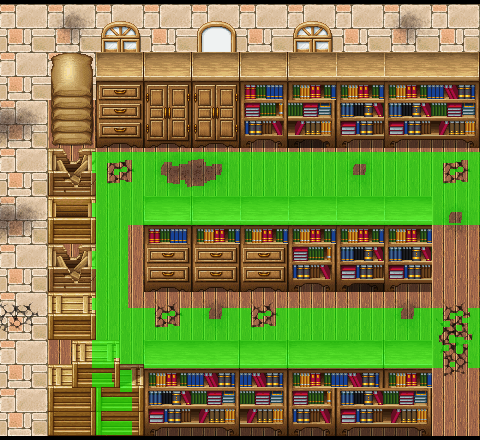
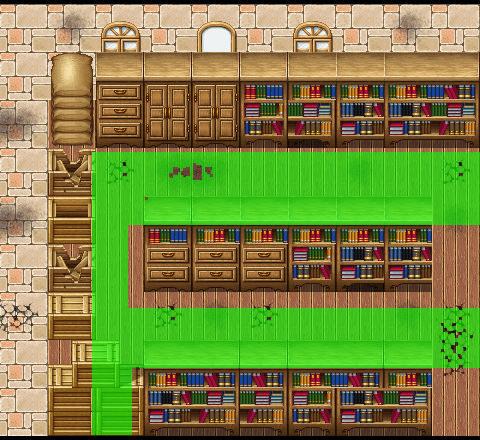
[实验] Citrate#35-38：走位段修复（提示重叠/擦碑音效/杂符/办公室卡顿）
- #35 墓园「Enter」提示下移到 y=250，不再与目标浮标「苏兰墓」重叠
- #36 Ch01 擦碑按住循环：擦净切阶段/描完/选项/离开场景 都主动 StopHold
- #37 去掉浮标文本里的 ▼ 记号（目标点本就有脉冲环+亮柱+菱形），消除杂符
- #38 办公室走动卡顿根因：木纹细线把可走面碎成 529 块、玩家困在小口袋。
  掩码形态学改「闭」(桥接细缝)，办公室连成一片(最大块95%含出生点)；
  引擎批量读掩码、脚探针收窄到 ±4/±2
- 反馈 #35-38 均标注程序回复；集成测试 87/87

diff --git a/tools/walkmask.py b/tools/walkmask.py
@@ -19,27 +19,30 @@ ROOT = os.path.dirname(os.path.dirname(os.path.abspath(__file__)))
 TEX = os.path.join(ROOT, "assets", "textures")
 OUT = os.path.join(ROOT, "data", "gen")
 
-# 地图 → 障碍矩形 (x0,y0,x1,y1)，像素坐标（图内）
+# 地图 → (闭运算半径, 障碍矩形 (x0,y0,x1,y1))，像素坐标（图内）
+# ★ 必须"闭"(先膨胀后腐蚀)而不是"开"：木地板的木纹/阴影是被判成非可走的细线，
+#   开运算会把这些细线越撕越宽、把地板碎成几百块（实测办公室 529 块），玩家被
+#   困在小口袋里→"走动极其不流畅"。闭运算把细缝桥接起来，得到一整片连通地板。
 MAPS = {
-    "map_office": [
+    "map_office": (5, [
         (378, 236, 568, 408),   # 书柜
         (700, 285, 880, 625),   # 右侧石堆
         (25, 555, 325, 705),    # 左下石料
         (146, 230, 312, 418),   # 床
         (410, 420, 568, 512),   # 桌
-    ],
-    "map_shop": [
+    ]),
+    "map_shop": (3, [
         (378, 108, 1012, 568),  # 中央碑样品陈列台
         (0, 688, 300, 832),     # 左下账台
         (250, 758, 1152, 960),  # 底部碑阵
-    ],
-    "map_archive_room": [
+    ]),
+    "map_archive_room": (3, [
         (0, 0, 480, 88),        # 顶墙
         (78, 88, 480, 152),     # 顶层架
         (0, 0, 92, 588),        # 左墙/抽屉列
         (128, 225, 480, 308),   # 中层架
         (132, 368, 480, 588),   # 底层架
-    ],
+    ]),
 }
 
 
@@ -51,14 +54,14 @@ def warm(a):
     return warmish & ~gray & ~dark
 
 
-def gen(name, obstacles):
+def gen(name, radius, obstacles):
     src = os.path.join(TEX, name + ".png")
     a = np.asarray(Image.open(src).convert("RGB")).astype(int)
     m = warm(a)
     mi = Image.fromarray((m * 255).astype("uint8"))
-    # 形态学开（去碎点）→ 闭（补小洞）
-    mi = (mi.filter(ImageFilter.MinFilter(5)).filter(ImageFilter.MaxFilter(5))
-            .filter(ImageFilter.MaxFilter(5)).filter(ImageFilter.MinFilter(5)))
+    # 闭运算：先把细缝桥接起来（地板连通），再轻微开一下去碎点
+    mi = (mi.filter(ImageFilter.MaxFilter(radius)).filter(ImageFilter.MinFilter(radius))
+            .filter(ImageFilter.MinFilter(3)).filter(ImageFilter.MaxFilter(3)))
     m = np.asarray(mi) > 128
     for x0, y0, x1, y1 in obstacles:
         m[max(0, y0):y1, max(0, x0):x1] = False
@@ -73,4 +76,5 @@ def gen(name, obstacles):
 if __name__ == "__main__":
     want = sys.argv[1:] or list(MAPS)
     for n in want:
-        gen(n, MAPS.get(n, []))
+        r, obs = MAPS.get(n, (3, []))
+        gen(n, r, obs)

diff --git a/src/Game/RpgWalk.cs b/src/Game/RpgWalk.cs
@@ -77,7 +77,7 @@ public partial class RpgWalk : Node2D
         {
             var beacon = new RpgBeacon { Position = t.Pos + new Vector2(0, -6) };
             AddChild(beacon);
-            var tag = new Label { Text = "▼ " + t.Label, Modulate = new Color(1, 0.97f, 0.85f) };
+            var tag = new Label { Text = t.Label, Modulate = new Color(1, 0.97f, 0.85f) };
             tag.AddThemeColorOverride("font_shadow_color", new Color(0, 0, 0, 0.9f));
             tag.AddThemeConstantOverride("shadow_offset_x", 1);
             tag.AddThemeConstantOverride("shadow_offset_y", 1);
@@ -106,11 +106,13 @@ public partial class RpgWalk : Node2D
         var maskTex = ResourceLoader.Exists(maskPath) ? ResourceLoader.Load<Texture2D>(maskPath) : null;
         if (maskTex != null)
         {
-            var mi = maskTex.GetImage(); mi.Convert(Image.Format.Rgb8);
+            var mi = maskTex.GetImage();
             if (mi.GetWidth() == _mw && mi.GetHeight() == _mh)
-                for (int y = 0; y < _mh; y++)
-                for (int x = 0; x < _mw; x++)
-                    walk[y * _mw + x] = mi.GetPixel(x, y).R > 0.5f;
+            {
+                mi.Convert(Image.Format.R8);        // 批量读像素，别逐格 GetPixel（几十万次会卡）
+                var px = mi.GetData();
+                for (int i = 0; i < px.Length && i < walk.Length; i++) walk[i] = px[i] > 128;
+            }
             else maskTex = null;
         }
         if (maskTex == null)   // 回退：颜色分类
@@ -126,7 +128,7 @@ public partial class RpgWalk : Node2D
         for (int x = 4; x < _mw - 4; x++)
         {
             bool ok = walk[y * _mw + x];
-            foreach (var (dx, dy) in new[] { (-4, 0), (4, 0), (0, 3), (0, -3) })
+            foreach (var (dx, dy) in new[] { (-4, 0), (4, 0), (0, 2), (0, -2) })
                 if (!walk[(y + dy) * _mw + (x + dx)]) { ok = false; break; }
             _safe[y * _mw + x] = ok;
         }

diff --git a/src/Game/Ch01.cs b/src/Game/Ch01.cs
@@ -129,8 +129,18 @@ public partial class Ch01 : Node2D
 
     public override void _Notification(int what)
     {
-        // 离开场景务必把系统光标还回来
-        if (what == NotificationExitTree) Input.MouseMode = Input.MouseModeEnum.Visible;
+        // 离开场景务必把系统光标还回来（#36：按住循环也一并停）
+        if (what == NotificationExitTree)
+        {
+            Input.MouseMode = Input.MouseModeEnum.Visible;
+            AudioIndex.StopHold();
+        }
+    }
+
+    /// <summary>#36：擦净/描完/选项时主动停掉按住循环——不然它会一直响到玩家松手。</summary>
+    void StopHolds()
+    {
+        if (_wipeHold || _traceHold) { _wipeHold = false; _traceHold = false; AudioIndex.StopHold(); }
     }
 
     public override void _Process(double delta)
@@ -199,6 +209,7 @@ public partial class Ch01 : Node2D
                 _dateSeen = 0;
                 if (DateDustMean() < 0.08f)
                 {
+                    StopHolds();   // #36：擦净即停，别等玩家松手
                     _phase = Phase.Choice; _hint.Text = "";
                     ShowGlow(true);
                     ShowCards();
@@ -394,6 +405,7 @@ public partial class Ch01 : Node2D
 
     void SixteenFound()
     {
+        StopHolds();
         AudioIndex.Sfx("sfx_trace_done");
         HideGlowCards();
         _save.Set(RunState.Flag.Clue01); _save.Set(RunState.Flag.StoneAltered);
@@ -406,6 +418,7 @@ public partial class Ch01 : Node2D
 
     void ChooseB()
     {
+        StopHolds();
         _save.Set(RunState.Flag.Clue02); _save.SetChoice(1, 'B');
         _save.Ledger.Add(new LedgerLine { Text = "系统里那两行都是五月十七。碑上刻的是十六。" });
         _save.Save();
@@ -415,6 +428,7 @@ public partial class Ch01 : Node2D
 
     void ChooseC()
     {
+        StopHolds();
         _save.SetChoice(1, 'C');
         _save.Save();
         HideGlowCards();

diff --git a/src/Dev/RPGExplo.cs b/src/Dev/RPGExplo.cs
@@ -112,7 +112,7 @@ public partial class RPGExplo : Node2D
         AddChild(_marker);
         _beaconTag = new Label
         {
-            Text = "▼ A 区 7 号 · 苏兰墓",
+            Text = "A 区 7 号 · 苏兰墓",
             Modulate = new Color(1f, 0.97f, 0.85f, 0.95f),
         };
         _beaconTag.AddThemeColorOverride("font_shadow_color", new Color(0, 0, 0, 0.9f));
@@ -422,7 +422,7 @@ public partial class RPGExplo : Node2D
         {
             if (_prompt == null)
             {
-                _prompt = new Label { Position = new Vector2(0, 46), Size = new Vector2(640, 26),
+                _prompt = new Label { Position = new Vector2(0, 250), Size = new Vector2(640, 26),
                     HorizontalAlignment = HorizontalAlignment.Center, Text = "Enter：凑近看碑面" };
                 var cl = new CanvasLayer(); cl.AddChild(_prompt); AddChild(cl);
             }

diff --git a/src/Game/RpgArchive.cs b/src/Game/RpgArchive.cs
@@ -10,7 +10,7 @@ public partial class RpgArchive : RpgWalk
     protected override Vector2 SpawnWorld => new(250, 340);
     protected override string[] Guidance => new[]
     {
-        "方向键走动　　走到「▼ 抽出那份卷宗」前，按 Enter",
+        "方向键走动　　走到「抽出那份卷宗」前，按 Enter",
     };
     protected override RpgTarget[] Targets => new[]
     {

diff --git a/src/Game/RpgOffice.cs b/src/Game/RpgOffice.cs
@@ -10,7 +10,7 @@ public partial class RpgOffice : RpgWalk
     protected override Vector2 SpawnWorld => new(460, 640);
     protected override string[] Guidance => new[]
     {
-        "方向键走动　　走到「▼ 打开墓园系统」前，按 Enter",
+        "方向键走动　　走到「打开墓园系统」前，按 Enter",
     };
     protected override RpgTarget[] Targets => new[]
     {

diff --git a/src/Game/RpgShop.cs b/src/Game/RpgShop.cs
@@ -10,7 +10,7 @@ public partial class RpgShop : RpgWalk
     protected override Vector2 SpawnWorld => new(240, 420);
     protected override string[] Guidance => new[]
     {
-        "方向键走动　　走到「▼ 到工作台前」按 Enter",
+        "方向键走动　　走到「到工作台前」按 Enter",
     };
     protected override RpgTarget[] Targets => new[]
     {

diff --git a/doc/Bugs反馈_Citrate657.md b/doc/Bugs反馈_Citrate657.md
@@ -84,3 +84,11 @@ else if (_traceHold)
    > **程序回复**：根因是第十一章**是唯一还用隐形热区（`Choices`）**的章节——屏幕上没有任何可见的可点对象，必然卡住（其余章节早改成了可见资料卡）。现改为 `DocChoices`：三张看得见的卡（整套交警方，原件留手里 · 先发到网上 · 自己去找苏航）+ 明确问句「证据怎么用，才是真相、又拿得出手？」，底部带「点卡片，或 ←→ 选 + Enter 确认」（截图验证）。
 34. ✅【已完成】添加了assets\videos\Ending.mp4作为制作人员名单，在游戏通关之后播放，其对应的背景音乐为assets\audio\ending_theme.mp3。
    > **程序回复**：①Godot 只认 Ogg Theora、**不认 mp4**（导入时没有 importer），我用 ffmpeg 把 `Ending.mp4` 转成 **`assets/videos/Ending.ogv`**（1280×720，源视频无音轨）。②新增**制作人员名单场景** `scenes/Credits.tscn`（`src/Game/Credits.cs`）：`VideoStreamPlayer` 全屏播 ogv，同时 `AudioStreamPlayer` **循环**播 `ending_theme.mp3`；放完 / 按任意键 / 超时都回封面，不会卡死。③真结局通到尾声后自动接名单：尾声结束由 `Boot` 改走 **`Credits`**，名单结束再回 `Boot`。截图验证视频正常渲染（《墓时》标题卡）。mp4 原件保留备查。
+35. ✅【已修复】第一章，在地图中`“苏兰墓”`与`“Enter”`文本有重叠。
+   > **程序回复**：墓园走位段的「Enter：凑近看碑面」原来贴顶（y=46），而目标浮标「A 区 7 号 · 苏兰墓」会随信标走到屏幕上方 → 两者撞在一起。已把 Enter 提示下移到 **y=250**（屏幕下三分之一），并把浮标文字去掉多余的记号，短句更不容易重叠。
+36. ✅【已修复】墓碑擦拭结束后，音效仍在播放。
+   > **程序回复**：根因是擦碑的按住循环（`loop_brush_stone`）只在"松手"时停；**擦净日期区、阶段切到 Choice 时没停**——若那一帧还按着右键，循环就一直响到松手甚至跨场。现在：擦净切阶段 / 描完 / 选登记本 / 选离开 / 离开场景（`ExitTree`）都会主动 `StopHold`（统一走 `StopHolds()`）。
+37. ✅【已修复】`“/打开墓园系统”`格式化符暴露。
+   > **程序回复**：那是浮标前缀的 `▼` 记号在低分辨率下被看成杂符。已**去掉文本里的 ▼**——目标点本来就有程序画的脉冲环+亮柱+顶端菱形做指示，文字保持干净（截图：浮标只剩「打开墓园系统」）。
+38. ✅【已修复】在办公室里走动极其不流畅。
+   > **程序回复**：找到根因了——办公室木地板里**木纹/阴影是细线**，被颜色分类判成"非可走"，于是可走面被撕成 **529 个碎块**，出生点恰好落在一个 42 像素的小口袋里，走动时不断撞墙=极其不流畅。修法：`tools/walkmask.py` 的形态学从"开"（越撕越宽）改成**"闭"（先膨胀后腐蚀，把细缝桥接起来）**，办公室地板现在是一整片（最大连通块占 95%，含出生点）；同时引擎改**批量读掩码**（不再逐像素 `GetPixel`）、脚占位探针收窄到 ±4/±2 减少蹭边。截图：办公室可走面连通。

diff --git a/doc/实验_RPG章节.md b/doc/实验_RPG章节.md
@@ -36,6 +36,9 @@
 - `RpgWalk` **优先读该掩码**（尺寸对不上或缺失才回退颜色分类）。
 - 调试图 `data/gen/walkprev_<map>.png`（绿=可走）用于肉眼校对。
 - 新增地图：在 `tools/walkmask.py` 的 `MAPS` 里加一条障碍矩形列表即可。
+- **坑（Citrate#38）**：木纹/阴影是细线，会打断颜色分类 → 可走面碎成几百块、玩家
+  困在小口袋里"走动极其不流畅"。形态学必须用**"闭"（先膨胀后腐蚀）桥接细缝**，
+  不能用"开"（会越撕越宽）。办公室闭运算 R=5 后连成一片（最大块 95%）。
 
 ## 四、做过的决策（按"最快到可玩"原则）
 
